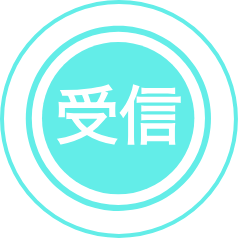
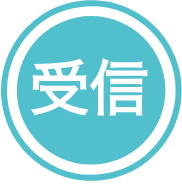
Top画面調整した

diff --git a/cho_on_pa/js/index.js b/cho_on_pa/js/index.js
@@ -119,17 +119,13 @@ window.onload = function(){
 <div>
      <!-- ロゴの幅はlogozoneで調整してください -->
      <div class="logozone">
-        <img src="image/toplogo.png" class="toplogo">
+        <img src="image/logo.png" class="toplogo">
      </div>
 
-     <div class="choice">
-        <div class="post">
-            <router-link to="/transmit"><img src="image/post.png" alt="post" class="button01"></router-link>
-        </div>
-        <div class="getpost">
-            <router-link to="/train"><img src="image/getpost.png" alt="getpost" class="button02"></router-link>
-        </div>
-    </div>
+     <div class="logozone-bottom">
+        <router-link to="/transmit"><img src="image/post.png" alt="post" class="button01"></router-link>
+        <router-link to="/train"><img src="image/getpost.png" alt="getpost" class="button02"></router-link>
+     </div>
 </div>
     `};
 

diff --git a/cho_on_pa/css/train.less b/cho_on_pa/css/train.less
@@ -52,26 +52,39 @@
 }
 
 .logozone {
+  margin-top: 60px;
+    display: flex;          /* 2 */
+    justify-content: center;/* 3 */
+    align-items: center;    /* 4 */
+}
+
+.logobox {
     
 }
+
+.logozone-bottom {
+    margin-top: 60px;
+}
+
 .toplogo {
-  width:214px;
-  height:163px;
+  width:267px;
+  height:158px;
+  justify-content: center;
   }
 
 
 /* buttons */
 img.button01 {
-  width: 118px;
+  width: 90px;
   margin-top: 0px;
-  margin-left: 38px;
+  margin-left: 52px;
   float: left;
 }
 
 img.button02 {
-  width: 118px;
+  width: 90px;
   margin-top: 0px;
-  margin-right: 38px;
+  margin-right: 52px;
   float: right;
 }
 
